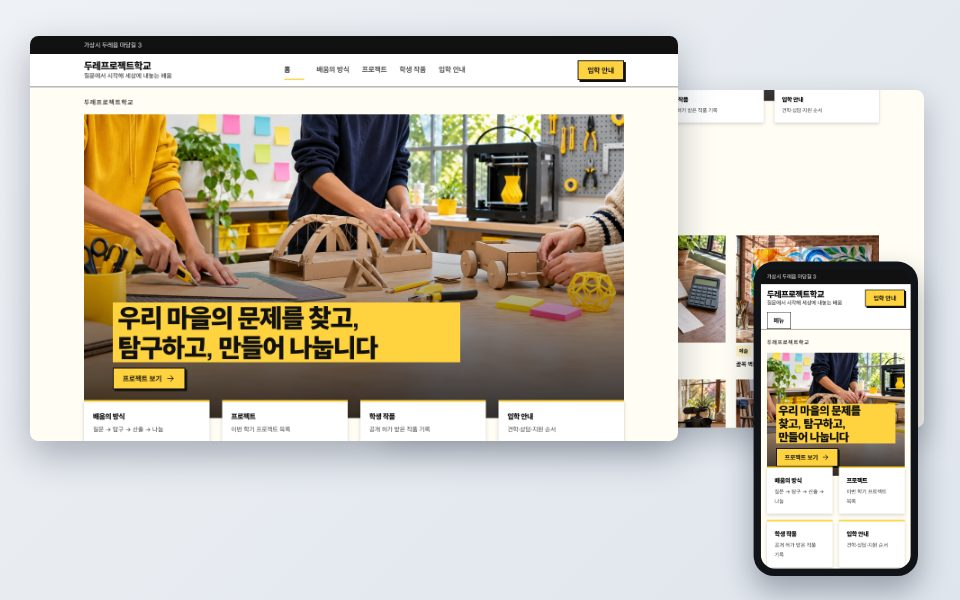
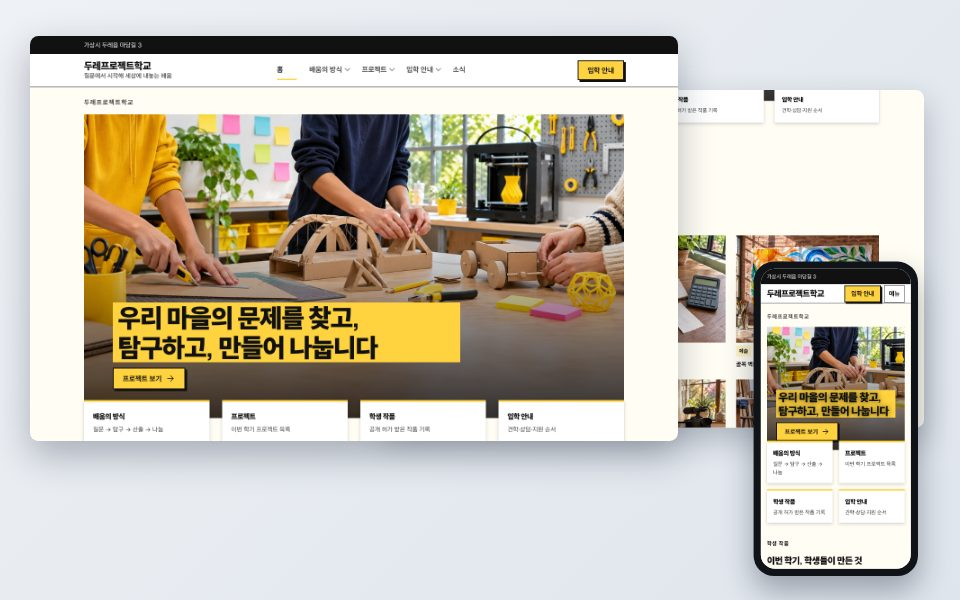
126차: 프로젝트형 템플릿 두 단계 메뉴 적용(v7)
배움의 방식(왜 프로젝트로·한 학기 흐름·멘토와 교사) · 프로젝트(이번 학기 프로젝트 · 학생 작품 하위 쪽)
· 입학 안내(절차·학비·질문·견학 신청) · 소식. e2e는 상위 메뉴에 손을 대 하위 '학생 작품'을 누른다.

Claude-Session: https://claude.ai/code/session_013RZyUom6xS67hpTPYHpecQ

Changed region(s): [[0.7812, 0.45, 0.9688, 0.96], [0.2812, 0.09, 0.375, 0.12], [0.4062, 0.09, 0.4688, 0.12]]

diff --git a/src/lib/site-templates.ts b/src/lib/site-templates.ts
@@ -218,7 +218,7 @@ export const SITE_TEMPLATES: SiteTemplate[] = [
     ],
   },
   {
-    key: 'project', version: 6, name: '프로젝트형', theme: 'studio', langs: ['ko'],
+    key: 'project', version: 7, name: '프로젝트형', theme: 'studio', langs: ['ko'],
     summary: '학생 프로젝트와 작품을 사진 묶음으로 보여 주는 PBL 학교용입니다.',
     fits: ['PBL·프로젝트 중심 대안학교', '발표회·전시가 많은 학교'], firstScreen: '프로젝트 소개 · 발표회 소식',
     mustHave: ['배움의 방식(PBL 흐름)', '프로젝트 목록', '학생 작품 공개 허가'],
@@ -237,18 +237,18 @@ export const SITE_TEMPLATES: SiteTemplate[] = [
         news(ko('발표회·전시 소식'), 3),
       ], { site: contact({ label: '입학 안내', href: '/p/admission' }) }),
       page('how-we-learn', 1, ko('배움의 방식'), [
-        section({ template: 'media-left', eyebrow: ko('질문에서 세상으로'), title: ko('왜 프로젝트로 배우나요'), body: ko('[학교의 설명]') }),
-        section({ template: 'facts', variant: 'curriculum', title: ko('한 학기 흐름'), items: [1, 2, 3, 4].map(() => ({ title: ko('[주차]'), body: ko('[활동]') })) }),
-        section({ template: 'cards', variant: 'mentors', eyebrow: ko('함께하는 사람'), title: ko('멘토와 교사'), items: [
+        section({ anchor: 'why', template: 'media-left', eyebrow: ko('질문에서 세상으로'), title: ko('왜 프로젝트로 배우나요'), body: ko('[학교의 설명]') }),
+        section({ anchor: 'semester', template: 'facts', variant: 'curriculum', title: ko('한 학기 흐름'), items: [1, 2, 3, 4].map(() => ({ title: ko('[주차]'), body: ko('[활동]') })) }),
+        section({ anchor: 'mentors', template: 'cards', variant: 'mentors', eyebrow: ko('함께하는 사람'), title: ko('멘토와 교사'), items: [
           { title: ko('[이름 · 맡은 분야]'), body: ko('[한 줄 소개]') }, { title: ko('[이름 · 맡은 분야]'), body: ko('[한 줄 소개]') }, { title: ko('[이름 · 맡은 분야]'), body: ko('[한 줄 소개]') }] }),
       ]),
       page('projects', 2, ko('프로젝트'), [
-        section({ template: 'cards', variant: 'feature-filter', eyebrow: ko('질문을 끝까지 따라간 기록'), title: ko('이번 학기 프로젝트'), items: [{ title: ko('[프로젝트 이름]'), body: ko('[질문 · 결과물 · 참여 학년]'), tag: ko('[학년 1]') }, { title: ko('[프로젝트 이름]'), body: ko('[설명]'), tag: ko('[학년 2]') }, { title: ko('[프로젝트 이름]'), body: ko('[프로젝트 확장 설명]'), tag: ko('[학년 1]') }] }),
+        section({ anchor: 'current', template: 'cards', variant: 'feature-filter', eyebrow: ko('질문을 끝까지 따라간 기록'), title: ko('이번 학기 프로젝트'), items: [{ title: ko('[프로젝트 이름]'), body: ko('[질문 · 결과물 · 참여 학년]'), tag: ko('[학년 1]') }, { title: ko('[프로젝트 이름]'), body: ko('[설명]'), tag: ko('[학년 2]') }, { title: ko('[프로젝트 이름]'), body: ko('[프로젝트 확장 설명]'), tag: ko('[학년 1]') }] }),
       ]),
       page('works', 3, ko('학생 작품'), [
         section({ template: 'cards', variant: 'portfolio', eyebrow: ko('작은 시도, 새로운 발견'), title: ko('학생 작품 아카이브'), body: ko('[학생·보호자 공개 허가를 받은 작품만 올립니다]'), items: [1, 2, 3, 4, 5, 6].map((n) => ({ title: ko(`[작품 이름 ${n}]`), tag: ko(`[분야 ${(n - 1) % 3 + 1}]`), body: ko(`[작품 설명 ${n}]`) })) }),
-      ]),
-      admissionPage('프로젝트', 4),
+      ], { menu: { parent: 'projects' } }), // 126차(ADR 0046): 프로젝트 아래 하위 쪽
+      admissionPage('프로젝트', 4, true),
     ],
     slots: [
       ...commonSlots(),
